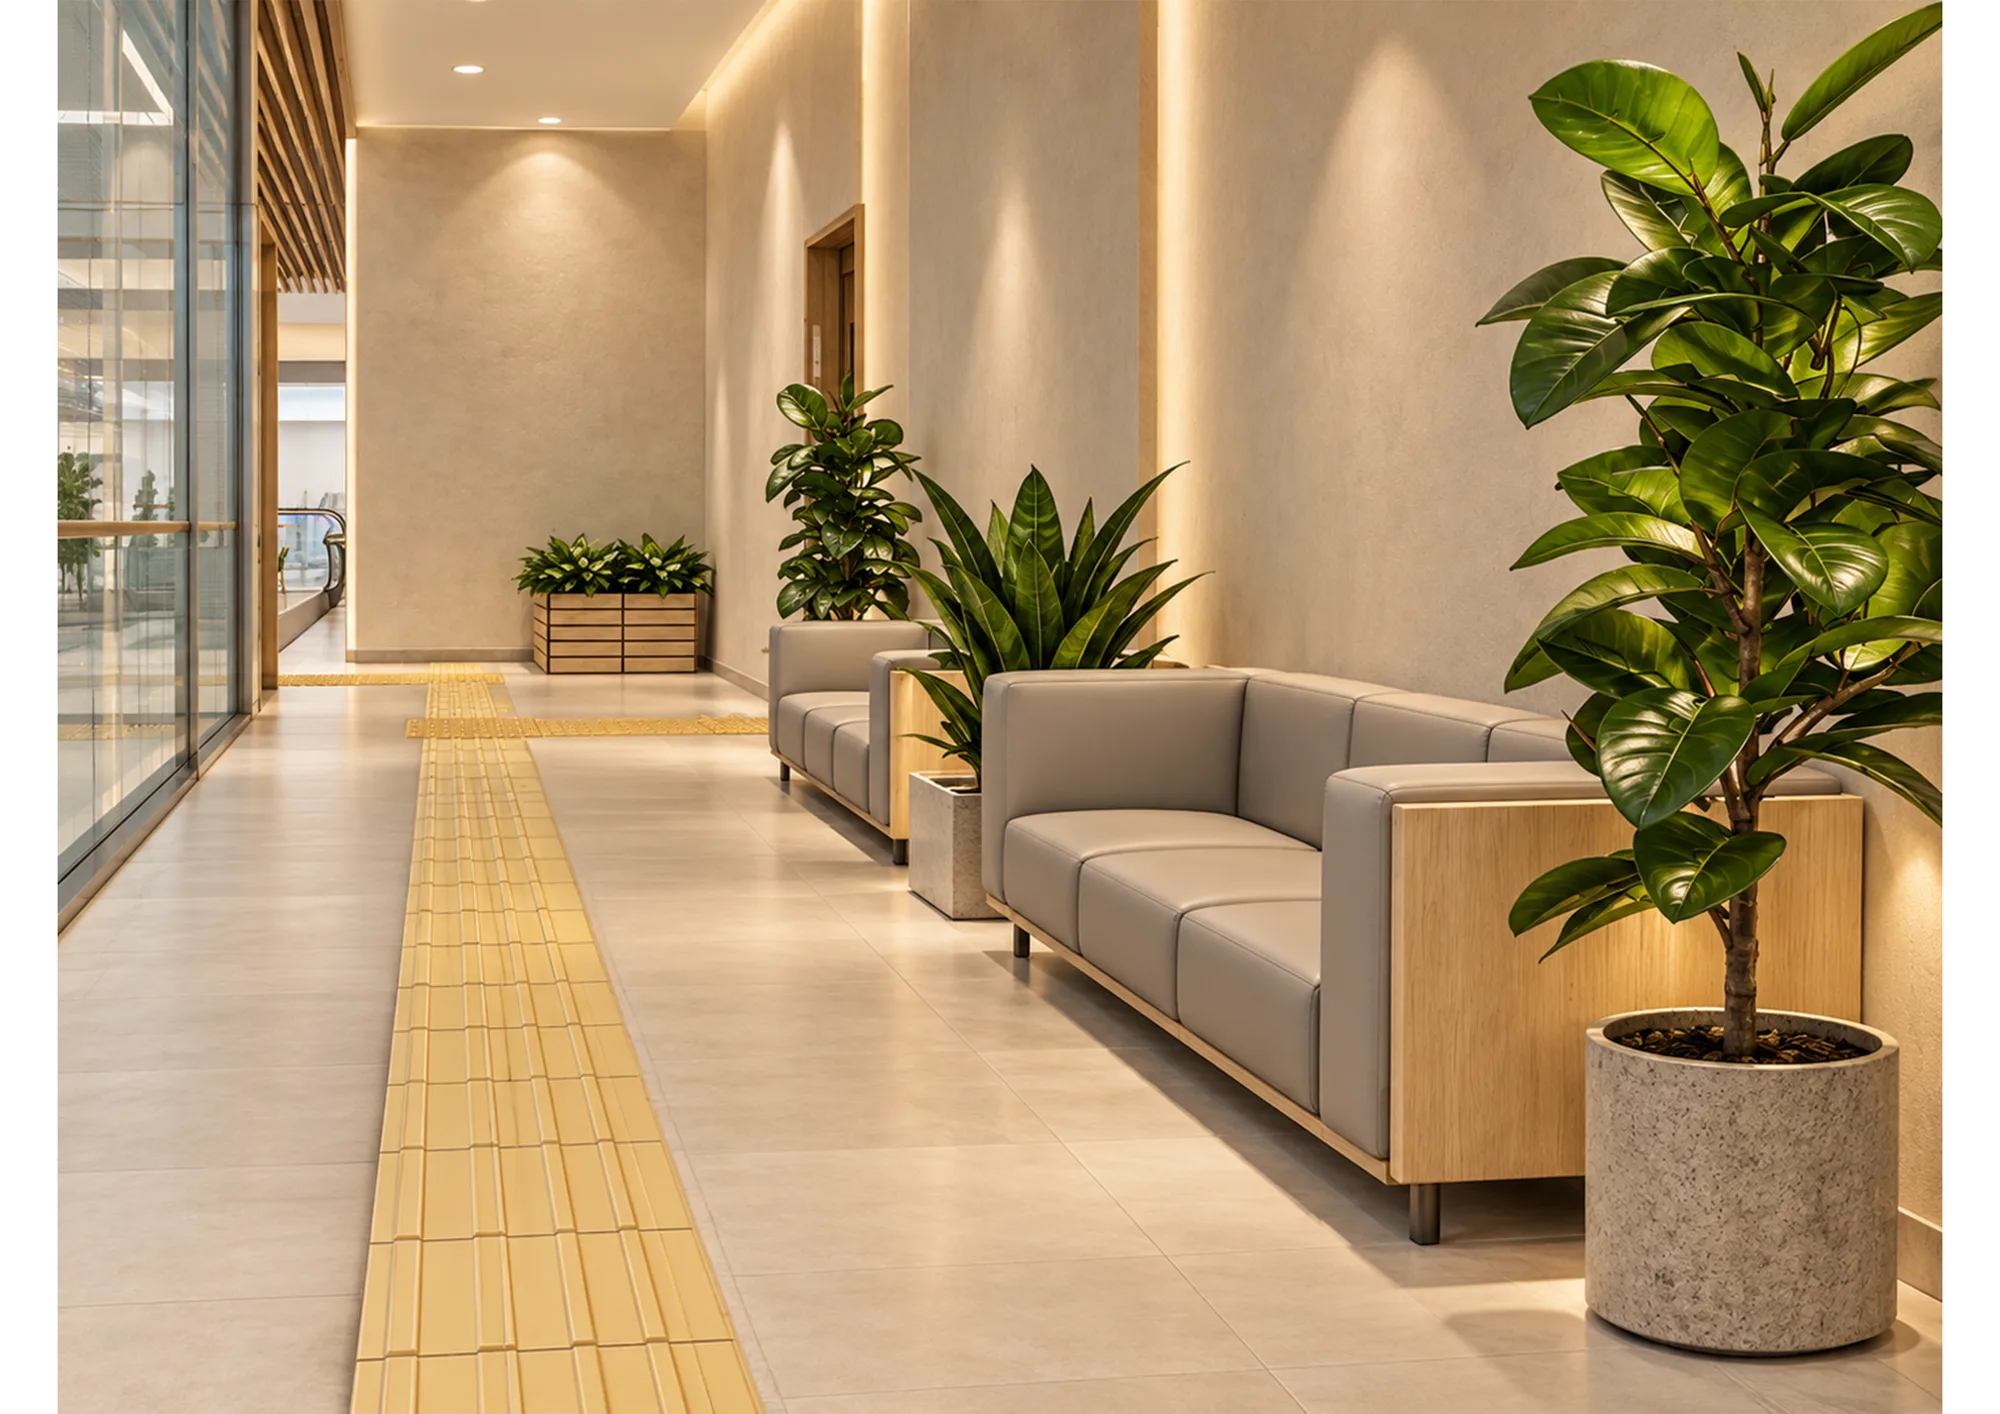
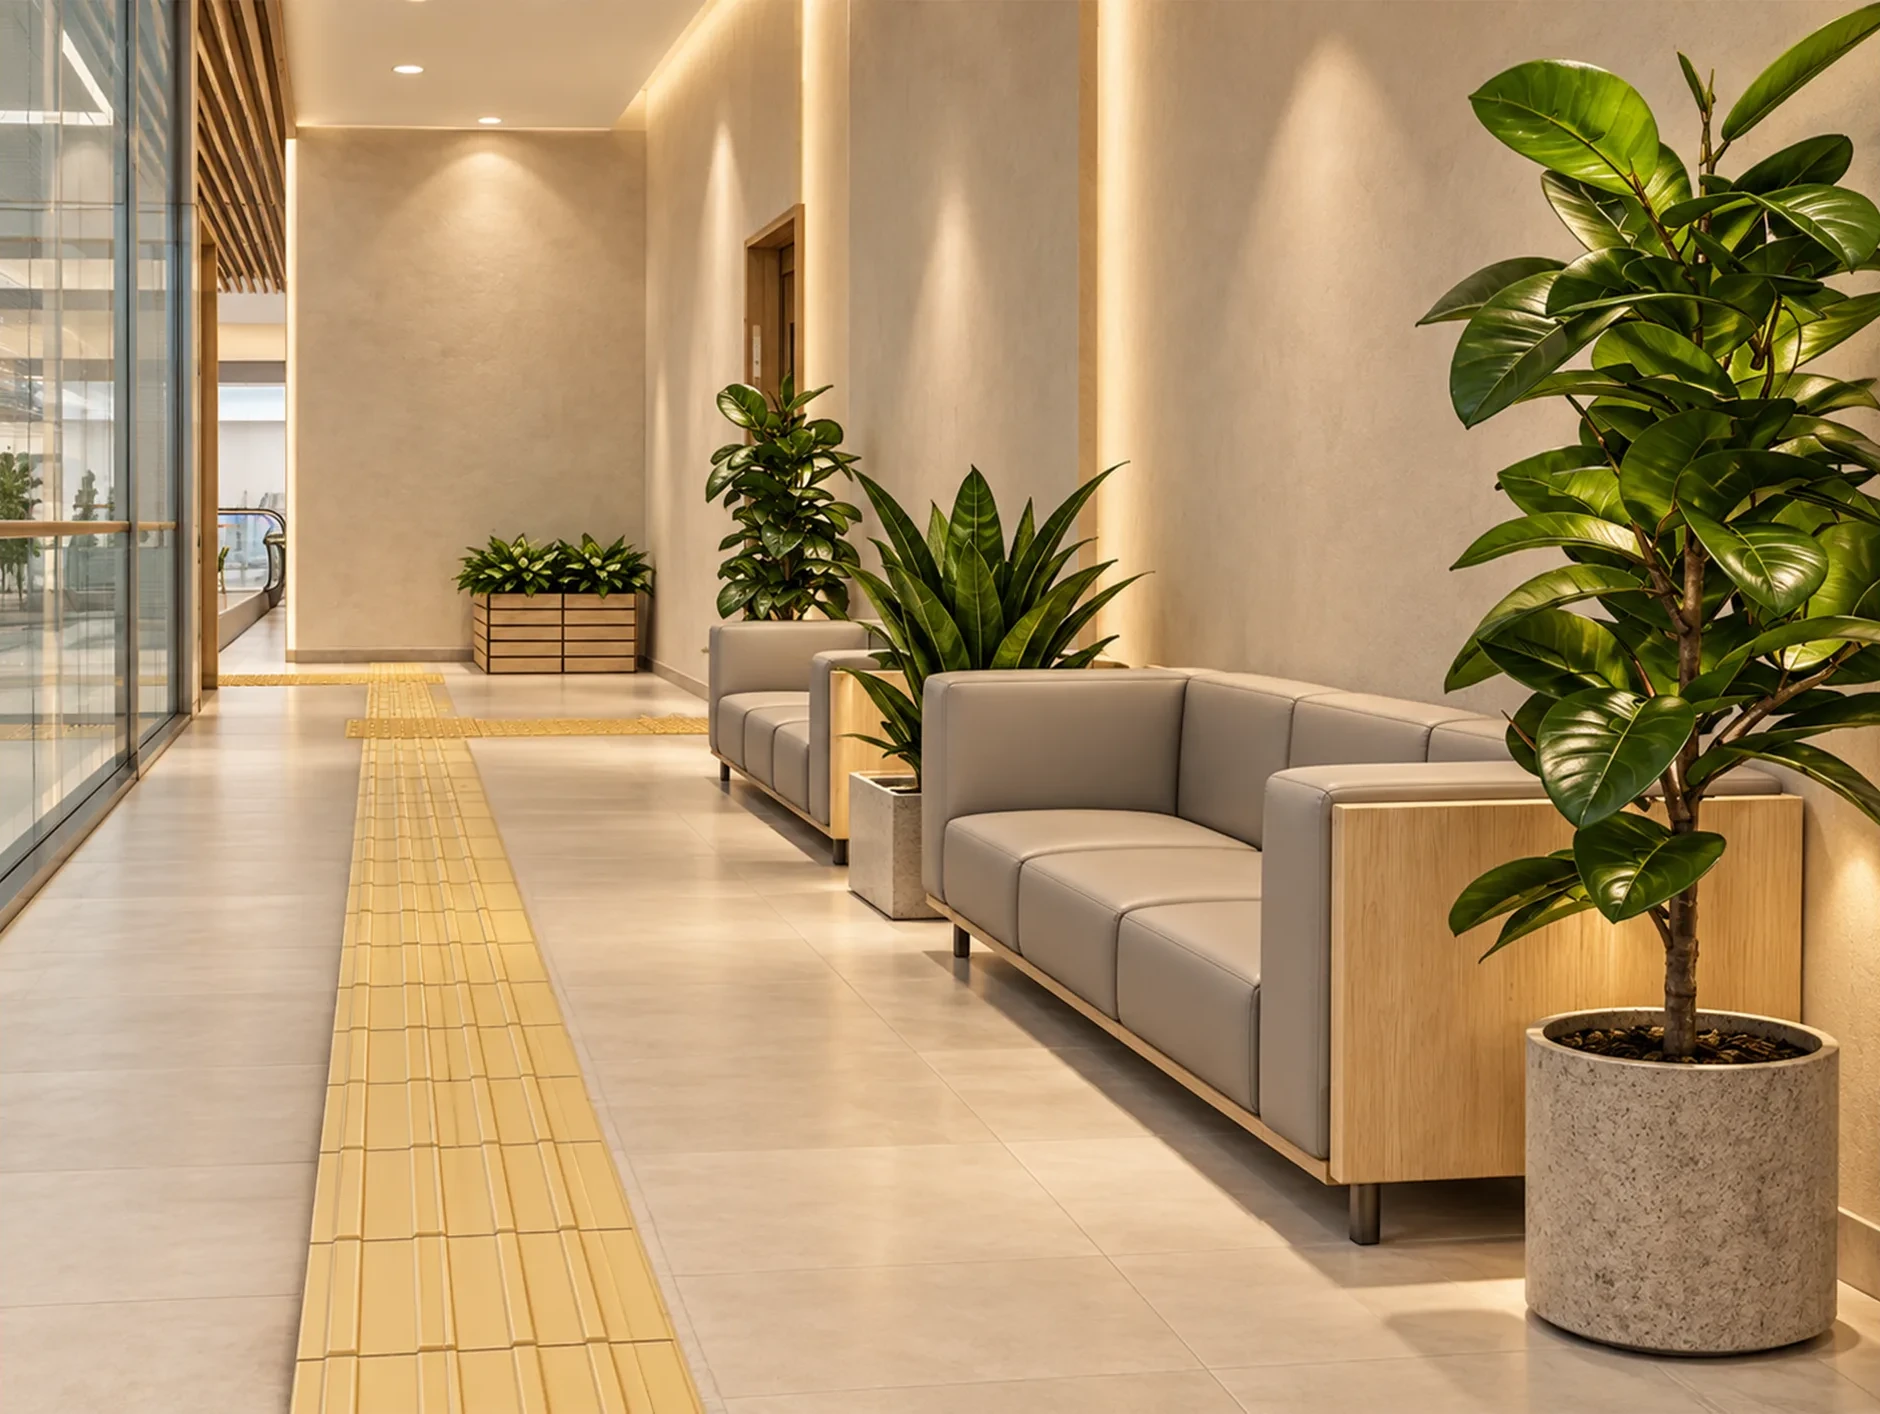
Crop white bars from escalator lounge render, use plan-only residential plans

diff --git a/src/routes/index.tsx b/src/routes/index.tsx
@@ -170,14 +170,14 @@ const residentialDetail: ProjectDetail = {
   overview:
     "A modern residence shaped by warm minimalism, organic texture, and easy spatial flow. Walnut, bouclé, and limestone run through the living, drawing, and dining rooms, pairing precise planning with a tactile, quietly luxurious finish.",
   sections: [
-    { label: "01 · Living Room Plan", heading: "Open conversation zone", note: "The CAD layout centres an open-plan conversation zone on an oversized L-shaped sectional. Dimensioning keeps traffic moving freely between the entrances and the glazed façade.", bigLabel: true, image: residentialLivingPlan, width: 1600, height: 694, large: true },
+    { label: "01 · Living Room Plan", heading: "Open conversation zone", note: "The CAD layout centres an open-plan conversation zone on an oversized L-shaped sectional. Dimensioning keeps traffic moving freely between the entrances and the glazed façade.", bigLabel: true, image: residentialLivingPlan, width: 687, height: 618 },
     { label: "02 · Mood Board", heading: "Living room palette", note: "Oak panelling, travertine, and bouclé accents set a refined palette. Sculptural walnut pieces bring rich contrast against soft, neutral walls.", image: residentialLivingBoard, width: 809, height: 1080 },
     { label: "03 · Render", heading: "Garden view", note: "Floor-to-ceiling glazing frames the garden and lets daylight wash across the warm wood panelling. Low seating keeps sightlines open through the full depth of the room.", image: residentialLivingGarden, width: 1738, height: 1080 },
     { label: "04 · Render", heading: "Feature wall and console", note: "Timber panelling hides flush doors to form one continuous feature wall. A carved console and abstract artwork add warmth and an editorial note.", image: residentialLivingWall, width: 1623, height: 1080 },
-    { label: "05 · Drawing Room Plan", heading: "Formal seating flow", note: "The drawing room plan sets a formal lounge around a curved central sofa and a pair of accent chairs. Symmetrical proportions keep the room welcoming for guests.",bigLabel: true, image: residentialDrawingPlan, width: 1403, height: 713 },
+    { label: "05 · Drawing Room Plan", heading: "Formal seating flow", note: "The drawing room plan sets a formal lounge around a curved central sofa and a pair of accent chairs. Symmetrical proportions keep the room welcoming for guests.",bigLabel: true, image: residentialDrawingPlan, width: 689, height: 713 },
     { label: "06 · Mood Board", heading: "Drawing room materials", note: "Bouclé upholstery on walnut frames gives the drawing room structural warmth, with stone detailing and a textured wool rug picked out by soft light.", image: residentialDrawingBoard, width: 863, height: 1080 },
     { label: "07 · Render", heading: "Lighting and ambience", note: "Concealed vertical LED strips wash the plaster walls in a warm glow, while an arched floor lamp creates a reading corner over organic timber coffee tables.", image: residentialDrawingRender, width: 1920, height: 1080 },
-    { label: "08 · Dining Plan", heading: "Ten-seat dining layout", note: "A ten-seat table runs alongside full-height sliding glass doors. Generous clearances keep movement to the service areas unobstructed.",bigLabel: true, image: residentialDiningPlan, width: 1468, height: 799 },
+    { label: "08 · Dining Plan", heading: "Ten-seat dining layout", note: "A ten-seat table runs alongside full-height sliding glass doors. Generous clearances keep movement to the service areas unobstructed.",bigLabel: true, image: residentialDiningPlan, width: 644, height: 789 },
     { label: "09 · Mood Board", heading: "Dining materials", note: "Walnut, ivory bouclé, and sheer linen make the dining room warm and welcoming, with matte black hardware grounding the neutral palette.", image: residentialDiningBoard, width: 864, height: 1080 },
     { label: "10 · Render", heading: "Dining perspective", note: "A hand-blown glass bubble chandelier hangs over the solid walnut table as the focal point. Sheer curtains filter garden light while keeping the room private.", image: residentialDiningRender, width: 1920, height: 1080 },
   ],
@@ -210,7 +210,7 @@ const foodCourtDetail: ProjectDetail = {
     { label: "04 · Render", heading: "Main concourse", note: "A wide view of the food hall shows wood-slat acoustic baffles, stone-clad piers, barrier-free concourses, and integrated wheelchair-accessible seating.", image: foodcourtHero, width: 2000, height: 1178 },
     { label: "05 · Render", heading: "Barrier-free ordering counter", note: "A multi-height service counter with lowered POS points and recessed kick-plates lets seated guests approach head-on and order unaided.", image: foodcourtCounter, width: 2000, height: 1718 },
     { label: "06 · Render", heading: "Tactile wayfinding corridor", note: "Directional tactile paving guides visually impaired visitors past seating nooks toward the restrooms and lifts.", image: foodcourtWayfinding, width: 1122, height: 1402 },
-    { label: "07 · Render", heading: "Escalator landing lounge", note: "A resting zone beside the escalators, with high-back sofas and tactile paths, lets elderly or mobility-impaired visitors pause and get their bearings before entering the hall.", image: foodcourtLiftLounge, width: 2000, height: 1414 },
+    { label: "07 · Render", heading: "Escalator landing lounge", note: "A resting zone beside the escalators, with high-back sofas and tactile paths, lets elderly or mobility-impaired visitors pause and get their bearings before entering the hall.", image: foodcourtLiftLounge, width: 1880, height: 1414 },
     { label: "08 · Render", heading: "Accessible dining and supportive seating", note: "Centre-pedestal tables, armrest chairs for easier standing, and open bays for wheelchairs make up the ergonomic dining setup.", image: foodcourtAccessible, width: 2000, height: 1168 },
     { label: "09 · Render", heading: "Axial dining perspective", note: "Generous aisles, slip-resistant porcelain flooring, and balanced ambient light run down the length of the main dining floor.", image: foodcourtAxial, width: 2000, height: 1479 },
     { label: "10 · Render", heading: "Social dining concourse", note: "Varied seating types, clear sightlines across the vendors, and timber acoustic ceiling treatments define the open social area.", image: foodcourtSocial, width: 1448, height: 1086 },
